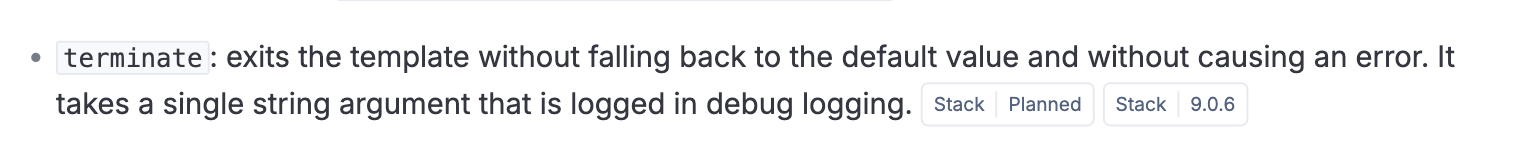
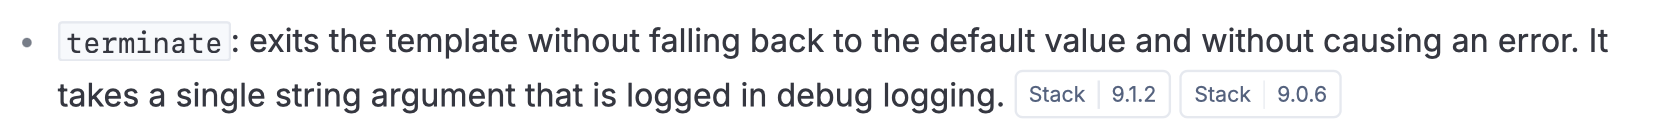
Update applies_to example for same lifecycle, multiple versions

diff --git a/docs/contribute/cumulative-docs/example-scenarios.md b/docs/contribute/cumulative-docs/example-scenarios.md
@@ -557,7 +557,7 @@ _Work in progress._
 
 ## Functionality is added to multiple patch versions [multiple-patch]
 
-Sometimes, features and enhancements slip through into patch versions. In that case, the same functionality might be added for the first time to multiple patch versions at the same time.
+Sometimes, features and enhancements slip through into patch versions, and the same functionality might be added for the first time to multiple patch versions at the same time. In that case, use two `applies_to` badges so that users can see clearly the versions in which the functionality is introduced.
 
 For example, on the [HTTP JSON input](https://www.elastic.co/docs/reference/beats/filebeat/filebeat-input-httpjson) page, the `terminate` helper function was added to a 9.0.x and 9.1.x patch version at the same time.
 
@@ -572,7 +572,7 @@ For example, on the [HTTP JSON input](https://www.elastic.co/docs/reference/beat
 ```markdown
 * `terminate`: exits the template without falling back to the default value
   and without causing an error. It takes a single string argument that is
-  logged in debug logging. {applies_to}`stack: ga 9.1.2, ga 9.0.6`
+  logged in debug logging. {applies_to}`stack: ga 9.1.2` {applies_to}`stack: ga 9.0.6`
 ```
 ::::
 :::::

diff --git a/docs/syntax/_snippets/inline-level-applies-examples.md b/docs/syntax/_snippets/inline-level-applies-examples.md
@@ -71,3 +71,21 @@ This example shows how to use directly a key from the second level of the `appli
 :::::
 ::::::
 
+::::::{dropdown} The functionality is available in the same lifecycle in multiple versions
+
+:::::{tab-set}
+
+::::{tab-item} Output
+
+{applies_to}`stack: ga 9.1.2` {applies_to}`stack: ga 9.0.6`
+
+::::
+
+::::{tab-item} Markdown
+```markdown
+{applies_to}`stack: ga 9.1.2` {applies_to}`stack: ga 9.0.6`
+```
+::::
+
+:::::
+::::::
